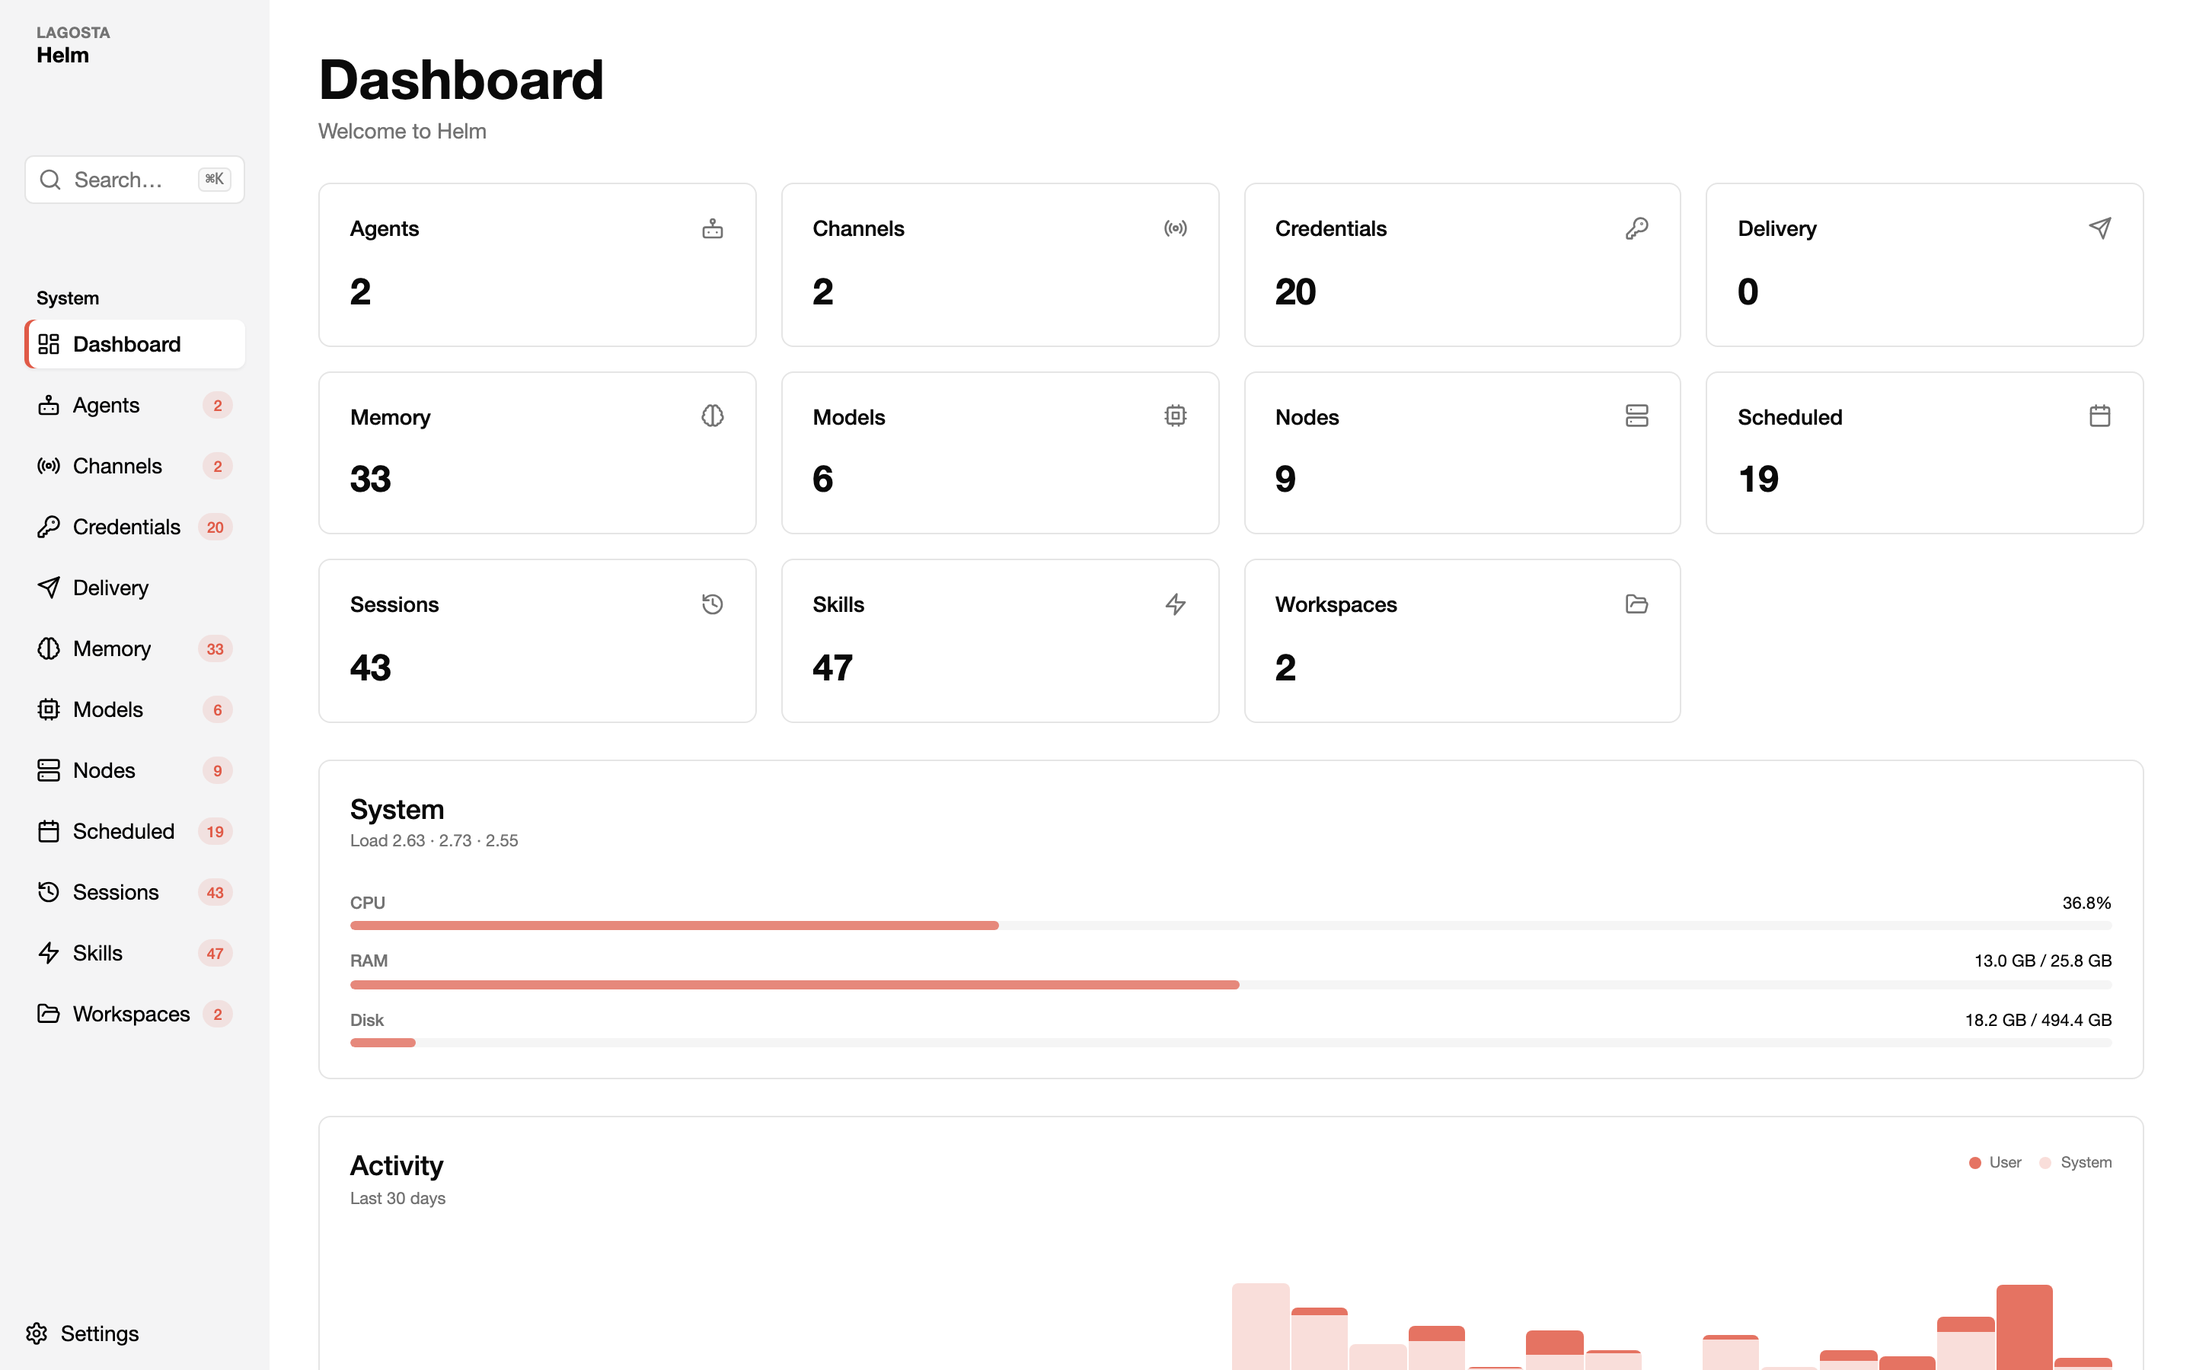
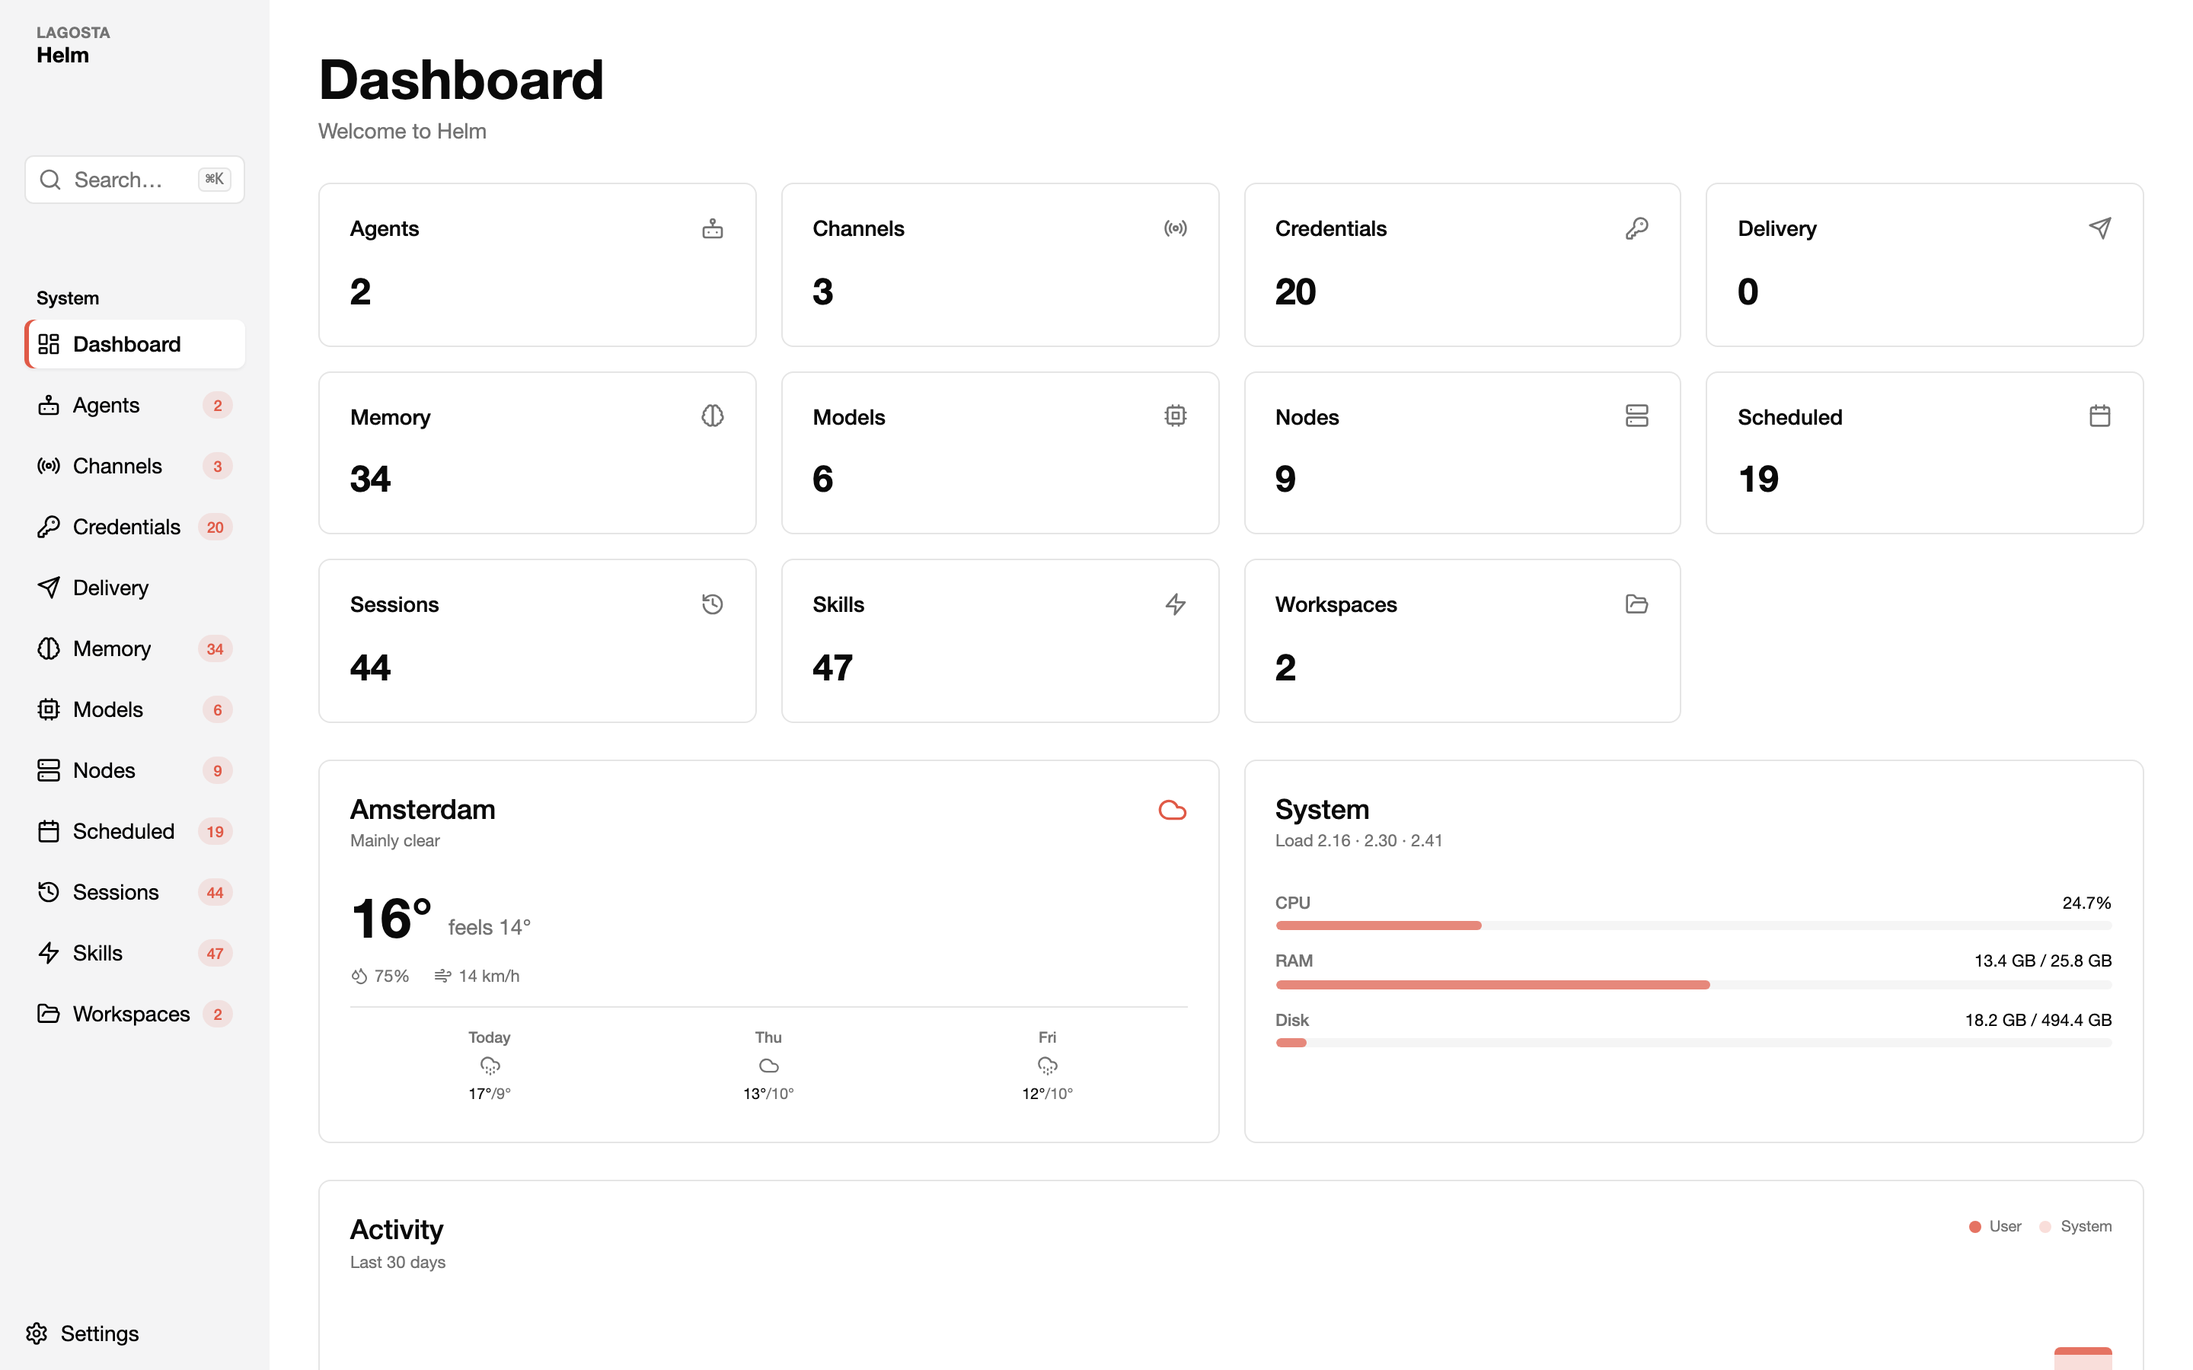
Add weather card to dashboard (Open-Meteo, no API key)
- /pages/api/weather.ts: fetches from Open-Meteo using lat/lon
  (defaults: Amsterdam 52.37/4.89, override via WEATHER_LAT/LON/LOCATION)
  30-minute TTL cache; WMO code → human description mapping
- WeatherCard component: 16° bold temp, feels like, humidity+wind icons,
  3-day forecast strip with condition icons and high°/low° per day
- Dashboard: Weather + System now sit side-by-side in a 2-col grid
- Condition icon tinted with --theme-accent; all icons from lucide-react
- wttr.in unreachable from this host, Open-Meteo works perfectly

diff --git a/pages/index.tsx b/pages/index.tsx
@@ -2,13 +2,19 @@ import { useState } from "react";
 import Layout from "@/components/Layout";
 import { ActivityCharts } from "@/components/ActivityCharts";
 import { Card, CardContent, CardHeader, CardTitle } from "@/components/ui/card";
-import { Brain, Bot, Calendar, History, Server, Zap, FolderOpen, Cpu, Radio, KeyRound, Send } from "lucide-react";
+import {
+  Brain, Bot, Calendar, History, Server, Zap, FolderOpen,
+  Cpu, Radio, KeyRound, Send,
+  Sun, Cloud, CloudDrizzle, CloudRain, CloudSnow, CloudLightning,
+  Droplets, Wind,
+} from "lucide-react";
 import Link from "next/link";
 import { useCounts } from "@/lib/counts-context";
 import { useAutoRefresh } from "@/lib/settings-context";
 import type { SystemMetrics } from "./api/system";
+import type { WeatherData } from "./api/weather";
 
-// ── System metrics mini-card ──────────────────────────────────────────────
+// ── Helpers ───────────────────────────────────────────────────────────────
 
 function fmtBytes(bytes: number): string {
   if (bytes >= 1e9) return (bytes / 1e9).toFixed(1) + " GB";
@@ -16,10 +22,129 @@ function fmtBytes(bytes: number): string {
   return (bytes / 1e3).toFixed(0) + " KB";
 }
 
+// WMO weather code → Lucide icon
+function wxIcon(code: number) {
+  if (code === 0)   return Sun;
+  if (code <= 3)    return Cloud;
+  if (code <= 48)   return CloudDrizzle;  // fog
+  if (code <= 57)   return CloudDrizzle;  // drizzle
+  if (code <= 67)   return CloudRain;     // rain
+  if (code <= 77)   return CloudSnow;     // snow
+  if (code <= 82)   return CloudRain;     // showers
+  if (code <= 86)   return CloudSnow;     // snow showers
+  return CloudLightning;                  // thunderstorm
+}
+
+function dayLabel(dateStr: string, i: number): string {
+  if (i === 0) return "Today";
+  // Parse as local noon to avoid timezone-off-by-one
+  const d = new Date(dateStr + "T12:00:00");
+  return d.toLocaleDateString("en-US", { weekday: "short" });
+}
+
+// ── Weather card ──────────────────────────────────────────────────────────
+
+function WeatherCard() {
+  const [weather, setWeather] = useState<WeatherData | null>(null);
+  const [error, setError]     = useState(false);
+
+  useAutoRefresh(() => {
+    fetch("/api/weather")
+      .then(r => r.json())
+      .then(d => { if (d.error) setError(true); else { setWeather(d); setError(false); } })
+      .catch(() => setError(true));
+  });
+
+  const CondIcon = weather ? wxIcon(weather.code) : Cloud;
+
+  return (
+    <Card>
+      <CardHeader className="pb-2">
+        <div className="flex items-start justify-between gap-2">
+          <div className="min-w-0">
+            <CardTitle className="text-sm font-medium truncate">
+              {weather?.location ?? "Weather"}
+            </CardTitle>
+            {weather && (
+              <p className="text-[11px] text-muted-foreground mt-0.5">{weather.desc}</p>
+            )}
+          </div>
+          <CondIcon className="h-5 w-5 shrink-0 mt-0.5" style={{ color: "var(--theme-accent)" }} />
+        </div>
+      </CardHeader>
+
+      <CardContent>
+        {/* Error state */}
+        {error && (
+          <p className="text-sm text-muted-foreground">Unavailable</p>
+        )}
+
+        {/* Skeleton */}
+        {!weather && !error && (
+          <div className="space-y-3">
+            <div className="h-10 w-28 bg-muted rounded animate-pulse" />
+            <div className="h-3 w-36 bg-muted rounded animate-pulse" />
+            <div className="h-px bg-muted" />
+            <div className="grid grid-cols-3 gap-1">
+              {[0,1,2].map(i => <div key={i} className="h-14 bg-muted rounded animate-pulse" />)}
+            </div>
+          </div>
+        )}
+
+        {/* Live data */}
+        {weather && (
+          <div className="space-y-3">
+            {/* Temperature row */}
+            <div className="flex items-end gap-2.5">
+              <span className="text-4xl font-bold tabular-nums leading-none">
+                {weather.tempC}°
+              </span>
+              <span className="text-sm text-muted-foreground pb-0.5">
+                feels {weather.feelsLikeC}°
+              </span>
+            </div>
+
+            {/* Humidity + Wind */}
+            <div className="flex gap-4 text-[11px] text-muted-foreground">
+              <span className="flex items-center gap-1">
+                <Droplets className="h-3 w-3" /> {weather.humidity}%
+              </span>
+              <span className="flex items-center gap-1">
+                <Wind className="h-3 w-3" /> {weather.windKmph} km/h
+              </span>
+            </div>
+
+            {/* 3-day forecast strip */}
+            <div className="pt-2 border-t border-border">
+              <div className="grid grid-cols-3">
+                {weather.forecast.map((day, i) => {
+                  const DayIcon = wxIcon(day.code);
+                  return (
+                    <div key={day.date} className="flex flex-col items-center gap-1 py-1">
+                      <span className="text-[10px] text-muted-foreground font-medium">
+                        {dayLabel(day.date, i)}
+                      </span>
+                      <DayIcon className="h-3.5 w-3.5 text-muted-foreground" />
+                      <span className="text-[10px] tabular-nums">
+                        {day.maxC}°
+                        <span className="text-muted-foreground">/{day.minC}°</span>
+                      </span>
+                    </div>
+                  );
+                })}
+              </div>
+            </div>
+          </div>
+        )}
+      </CardContent>
+    </Card>
+  );
+}
+
+// ── System metrics card ───────────────────────────────────────────────────
+
 function MetricBar({ label, pct, value }: { label: string; pct: number; value: string }) {
   const clamped = Math.min(100, Math.max(0, pct));
-  const color = clamped > 85 ? "var(--theme-accent)" : "var(--theme-accent)";
-  const opacity = clamped > 85 ? 1 : 0.7;
   return (
     <div className="space-y-1">
       <div className="flex justify-between text-[11px]">
@@ -29,7 +154,7 @@ function MetricBar({ label, pct, value }: { label: string; pct: number; value: s
       <div className="h-1.5 w-full rounded-full bg-muted overflow-hidden">
         <div
           className="h-full rounded-full transition-all duration-500"
-          style={{ width: `${clamped}%`, backgroundColor: color, opacity }}
+          style={{ width: `${clamped}%`, backgroundColor: "var(--theme-accent)", opacity: clamped > 85 ? 1 : 0.7 }}
         />
       </div>
     </div>
@@ -68,21 +193,9 @@ function SystemCard() {
           </div>
         ) : (
           <>
-            <MetricBar
-              label="CPU"
-              pct={metrics.cpu.pct}
-              value={`${metrics.cpu.pct.toFixed(1)}%`}
-            />
-            <MetricBar
-              label="RAM"
-              pct={metrics.ram.pct}
-              value={`${fmtBytes(metrics.ram.usedBytes)} / ${fmtBytes(metrics.ram.totalBytes)}`}
-            />
-            <MetricBar
-              label="Disk"
-              pct={metrics.disk.pct}
-              value={`${fmtBytes(metrics.disk.usedBytes)} / ${fmtBytes(metrics.disk.totalBytes)}`}
-            />
+            <MetricBar label="CPU"  pct={metrics.cpu.pct}  value={`${metrics.cpu.pct.toFixed(1)}%`} />
+            <MetricBar label="RAM"  pct={metrics.ram.pct}  value={`${fmtBytes(metrics.ram.usedBytes)} / ${fmtBytes(metrics.ram.totalBytes)}`} />
+            <MetricBar label="Disk" pct={metrics.disk.pct} value={`${fmtBytes(metrics.disk.usedBytes)} / ${fmtBytes(metrics.disk.totalBytes)}`} />
           </>
         )}
       </CardContent>
@@ -95,19 +208,18 @@ function SystemCard() {
 export default function Dashboard() {
   const { counts } = useCounts();
 
-  // Same order as sidebar (Dashboard excluded — you're already here)
   const stats = [
-    { label: "Agents",      value: counts?.agents,        icon: Bot,     href: "/agents"     },
-    { label: "Channels",    value: counts?.channels,      icon: Radio,   href: "/channels"   },
-    { label: "Credentials", value: counts?.credentials,   icon: KeyRound,href: "/credentials"},
-    { label: "Delivery",    value: counts?.deliveryQueue, icon: Send,    href: "/delivery"   },
-    { label: "Memory",      value: counts?.memory,        icon: Brain,   href: "/memory"     },
-    { label: "Models",      value: counts?.models,        icon: Cpu,     href: "/models"     },
-    { label: "Nodes",       value: counts?.nodes,         icon: Server,  href: "/nodes"      },
-    { label: "Scheduled",   value: counts?.scheduled,     icon: Calendar,href: "/scheduled"  },
-    { label: "Sessions",    value: counts?.sessions,      icon: History, href: "/sessions"   },
-    { label: "Skills",      value: counts?.skills,        icon: Zap,     href: "/skills"     },
-    { label: "Workspaces",  value: counts?.workspaces,    icon: FolderOpen,href:"/workspaces" },
+    { label: "Agents",      value: counts?.agents,        icon: Bot,      href: "/agents"      },
+    { label: "Channels",    value: counts?.channels,      icon: Radio,    href: "/channels"    },
+    { label: "Credentials", value: counts?.credentials,   icon: KeyRound, href: "/credentials" },
+    { label: "Delivery",    value: counts?.deliveryQueue, icon: Send,     href: "/delivery"    },
+    { label: "Memory",      value: counts?.memory,        icon: Brain,    href: "/memory"      },
+    { label: "Models",      value: counts?.models,        icon: Cpu,      href: "/models"      },
+    { label: "Nodes",       value: counts?.nodes,         icon: Server,   href: "/nodes"       },
+    { label: "Scheduled",   value: counts?.scheduled,     icon: Calendar, href: "/scheduled"   },
+    { label: "Sessions",    value: counts?.sessions,      icon: History,  href: "/sessions"    },
+    { label: "Skills",      value: counts?.skills,        icon: Zap,      href: "/skills"      },
+    { label: "Workspaces",  value: counts?.workspaces,    icon: FolderOpen, href: "/workspaces" },
   ];
 
   return (
@@ -140,8 +252,11 @@ export default function Dashboard() {
           })}
         </div>
 
-        {/* System metrics */}
-        <SystemCard />
+        {/* Weather + System side by side */}
+        <div className="grid grid-cols-1 sm:grid-cols-2 gap-4">
+          <WeatherCard />
+          <SystemCard />
+        </div>
 
         {/* Activity charts + log */}
         <ActivityCharts />

diff --git a/pages/api/weather.ts b/pages/api/weather.ts
@@ -1,0 +1,107 @@
+import type { NextApiRequest, NextApiResponse } from "next";
+import https from "https";
+
+// ── Config ──────────────────────────────────────────────────────────────────
+// Override via env vars in .env.local:
+//   WEATHER_LOCATION=Amsterdam  WEATHER_LAT=52.37  WEATHER_LON=4.89
+const LAT  = parseFloat(process.env.WEATHER_LAT      ?? "52.37");
+const LON  = parseFloat(process.env.WEATHER_LON      ?? "4.89");
+const NAME =            process.env.WEATHER_LOCATION ?? "Amsterdam";
+
+const CACHE_TTL_MS = 30 * 60 * 1000; // 30 min — weather changes slowly
+
+// ── Types ───────────────────────────────────────────────────────────────────
+export interface ForecastDay {
+  date: string;  // YYYY-MM-DD
+  code: number;
+  desc: string;
+  maxC: number;
+  minC: number;
+}
+
+export interface WeatherData {
+  location: string;
+  tempC: number;
+  feelsLikeC: number;
+  code: number;
+  desc: string;
+  humidity: number;
+  windKmph: number;
+  forecast: ForecastDay[]; // 3 days including today
+}
+
+// ── WMO weather code → human description ────────────────────────────────────
+const WMO: Record<number, string> = {
+  0:  "Clear sky",
+  1:  "Mainly clear",   2: "Partly cloudy",   3: "Overcast",
+  45: "Foggy",         48: "Freezing fog",
+  51: "Light drizzle", 53: "Drizzle",         55: "Heavy drizzle",
+  56: "Freezing drizzle", 57: "Heavy freezing drizzle",
+  61: "Light rain",    63: "Rain",            65: "Heavy rain",
+  66: "Freezing rain", 67: "Heavy freezing rain",
+  71: "Light snow",    73: "Snow",            75: "Heavy snow",  77: "Snow grains",
+  80: "Rain showers",  81: "Heavy showers",   82: "Violent showers",
+  85: "Snow showers",  86: "Heavy snow showers",
+  95: "Thunderstorm",  96: "Thunderstorm + hail", 99: "Severe thunderstorm",
+};
+
+// ── Cache ────────────────────────────────────────────────────────────────────
+let cache: { data: WeatherData; ts: number } | null = null;
+
+function fetchJson(url: string): Promise<unknown> {
+  return new Promise((resolve, reject) => {
+    const req = https.get(url, { timeout: 8000 }, (res) => {
+      let body = "";
+      res.on("data", (chunk) => (body += chunk));
+      res.on("end", () => {
+        try { resolve(JSON.parse(body)); }
+        catch (e) { reject(new Error("JSON parse error")); }
+      });
+    });
+    req.on("error", reject);
+    req.on("timeout", () => { req.destroy(); reject(new Error("Request timeout")); });
+  });
+}
+
+// ── Handler ──────────────────────────────────────────────────────────────────
+export default async function handler(req: NextApiRequest, res: NextApiResponse) {
+  if (cache && Date.now() - cache.ts < CACHE_TTL_MS) {
+    return res.json(cache.data);
+  }
+
+  try {
+    const url =
+      `https://api.open-meteo.com/v1/forecast` +
+      `?latitude=${LAT}&longitude=${LON}` +
+      `&current=temperature_2m,apparent_temperature,weather_code,wind_speed_10m,relative_humidity_2m` +
+      `&daily=weather_code,temperature_2m_max,temperature_2m_min` +
+      `&timezone=Europe%2FAmsterdam&forecast_days=3`;
+
+    const raw = await fetchJson(url) as any; // eslint-disable-line @typescript-eslint/no-explicit-any
+    const cur   = raw.current;
+    const daily = raw.daily;
+
+    const data: WeatherData = {
+      location:    NAME,
+      tempC:       Math.round(cur.temperature_2m),
+      feelsLikeC:  Math.round(cur.apparent_temperature),
+      code:        cur.weather_code as number,
+      desc:        WMO[cur.weather_code as number] ?? "Unknown",
+      humidity:    cur.relative_humidity_2m as number,
+      windKmph:    Math.round(cur.wind_speed_10m),
+      forecast:    (daily.time as string[]).map((date, i) => ({
+        date,
+        code: daily.weather_code[i] as number,
+        desc: WMO[daily.weather_code[i] as number] ?? "Unknown",
+        maxC: Math.round(daily.temperature_2m_max[i]),
+        minC: Math.round(daily.temperature_2m_min[i]),
+      })),
+    };
+
+    cache = { data, ts: Date.now() };
+    res.json(data);
+  } catch (e: unknown) {
+    const msg = e instanceof Error ? e.message : "Weather unavailable";
+    res.status(500).json({ error: msg });
+  }
+}
